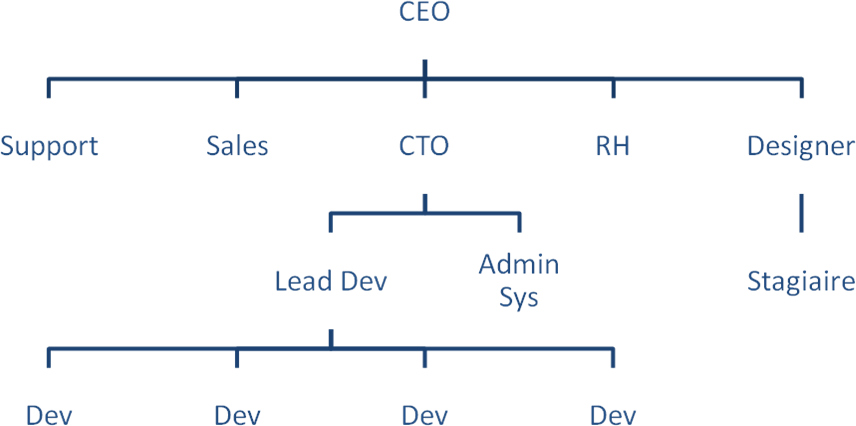
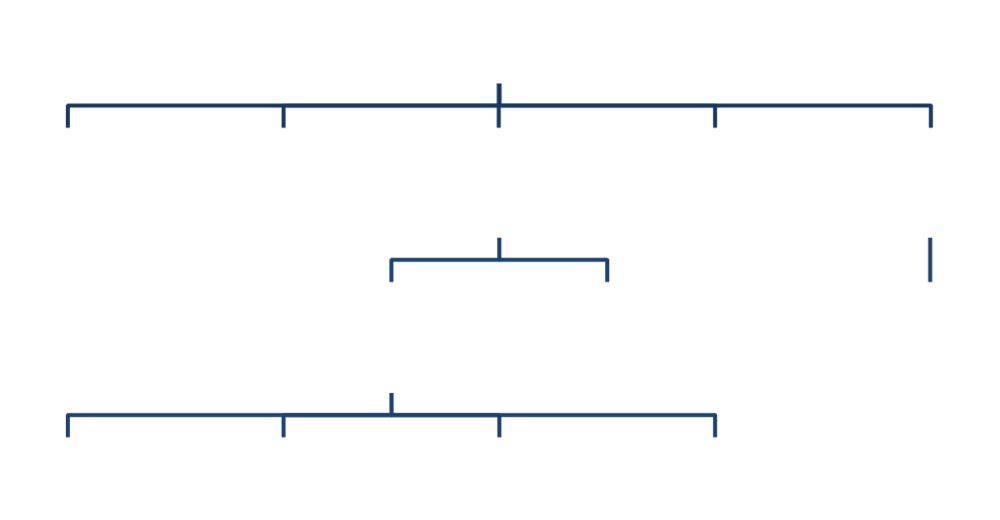
staff

diff --git a/appli/css/styles.css b/appli/css/styles.css
@@ -11,12 +11,28 @@
 }
 
 
-.staff {
+.staff table {
+    font-size: 31px;
+    background-image:url(/startup/images/staff/staff.png);
+    background-repeat:no-repeat;
     margin-top: 50px;
-    width:100%;
-    height:70%;
+    text-align: center;
+    width: 1000px;
+    height: 520px;
 }
 
+.staff table td {
+    //border:1px red solid;
+    width: 53px;
+}
+
+.staff .entry {
+    cursor: pointer;
+}
+
+.hidden {
+    display: none;
+}
 
 .site {
     width:auto;
@@ -47,22 +63,43 @@
     white-space: nowrap;
     overflow: hidden;
     font-size: 18px;
-    padding: 20px;
-    padding-left: 20%;
-    padding-top: 5px;
-    height: 45px;
-    width: 79%;
+    padding-left: 10px;
+    height: 70px;
+    width: 98%;
     background-color: rgb(29, 39, 35);
     color: rgb(200, 223, 230);
     font-size: 32px;
 }
 
-.menu .windows {
+#windows_menu {
+    display: none;
+    background-color: white;
+    position: fixed;
+    bottom: 79px;
+    width: 277px;
+    height: 602px;
+    border: 2px black outset;
+}
+
+#windows_icon {
+    float:left;
+    margin-right:100px;
+    width: 70px;
+    height: 70px;
 }
 
 .menu .entry {
     float:left;
     padding-right: 20px;
+}
+
+.menu .outlook img {
+    height: 20px;
+    width: 40px;
+}
+
+.menu .outlook span {
+    float:right;
 }
 
 .header {

diff --git a/appli/js/staff.js b/appli/js/staff.js
@@ -1,0 +1,11 @@
+$(document).on('click', '.staff .entry', function(e) {
+    e.preventDefault();
+
+    $.post("staff/show", { employeeId : $(e.target).attr('data-id') }, function(data) {
+        if (!$('#windows_menu').is(':visible')) {
+            $('#windows_menu').toggle();
+        }
+
+        $('#windows_menu').html(data);
+    });
+});

diff --git a/appli/js/startup.js b/appli/js/startup.js
@@ -1,0 +1,5 @@
+$(document).on('click', '#windows_icon', function(e) {
+    e.preventDefault();
+
+    $('#windows_menu').toggle();
+});

diff --git a/appli/views/main/wJavascript.php b/appli/views/main/wJavascript.php
@@ -1,11 +1,8 @@
 <script src="startup/libraries/jquery-2.0.0.min.js"></script>
-<script src="startup/libraries/tooltipmenu/js/modernizr.custom.js"></script>
-<script type="text/javascript" src="startup/libraries/chat/js/chat.js"></script>
+<script src="startup/appli/js/startup.js"></script>
 <script type="text/javascript" src="startup/libraries/growler/js/gritter.js"></script>
 <script type="text/javascript" src="startup/libraries/modal/js/jquery.magnific-popup.js"></script>
 <script type="text/javascript" src="startup/appli/js/modal.js"></script>
-<script type="text/javascript" src="startup/appli/js/notification.js"></script>
-<script src="startup/libraries/tooltipmenu/js/cbpTooltipMenu.min.js"></script>
 
 <script>
     $.extend($.gritter.options, {
@@ -16,168 +13,5 @@
     foreach($this->_growlerMessages as $message) :
         echo $message;
     endforeach;
-endif;
-
-if($this->isJSActivated(JS_DATEPICKER)) : ?>
-    <script type="text/javascript" src="startup/libraries/datepicker/jquery.datetimepicker.js"></script>
-    <script type="text/javascript" src="startup/libraries/datepicker/datepicker.js"></script>
-<?php endif;
-if($this->isJSActivated(JS_AUTOCOMPLETE)) : ?>
-    <script src="startup/libraries/jquery-ui/jquery-ui.js"></script>
-    <script src="startup/appli/js/autocomplete.js"></script>
-<?php endif;
-if($this->isJSActivated(JS_SCROLL_REFRESH)) : ?>
-    <script type="text/javascript" src="startup/appli/js/scrollRefresh.js"></script>
-<?php endif;
-if($this->isJSActivated(JS_PHOTO)) : ?>
-    <script type="text/javascript" src="startup/appli/js/photo.js"></script>
-<?php endif;
-if($this->isJSActivated(JS_SEARCH)) : ?>
-    <script type="text/javascript" src="startup/appli/js/search.js"></script>
-<?php endif;
-if($this->isJSActivated(JS_CREW)) : ?>
-    <script type="text/javascript" src="startup/appli/js/crew.js"></script>
-<?php endif;
-if($this->isJSActivated(JS_AGENDA)) : ?>
-    <link rel='stylesheet' href='startup/libraries/agenda/fullcalendar.css' />
-    <script src='startup/libraries/agenda/lib/moment.min.js'></script>
-    <script src='startup/libraries/agenda/fullcalendar.js'></script>
-    <script src='startup/libraries/agenda/lang-all.js'></script>
-    <script>
-    $(document).ready(function() {
-        $('#calendar').fullCalendar({
-            header: {
-                left: 'prev,next today',
-                center: 'title',
-                right: 'month,agendaWeek,agendaDay'
-            },
-            lang: 'fr',
-            defaultDate: '<?php echo $this->default_date; ?>',
-            editable: true,
-            eventLimit: true,
-            dayClick: function() {
-                alert('a day has been clicked!');
-            },
-            events: 'agenda/getEvents'
-        })
-    });
-    </script>
-<?php endif;
-if($this->isJSActivated(JS_FEED)) : ?>
-    <script src="startup/libraries/timeline/js/jquery.timelinr-0.9.6.js"></script>
-    <script type="text/javascript" src="startup/libraries/jquery-comments/js/jquery-comments.js"></script>
-    <script>
-        $(document).ready(function() {
-            $('#comments-container').comments({
-                profilePictureURL: 'startup/photos/profile/<?php echo $this->context->get('user_photo_url'); ?>',
-                postCommentOnEnter: true,
-                enableAttachments: true,
-                getComments: function(success, error) {
-                    $.ajax({
-                        type: 'get',
-                        url: '/plan/getComments/<?php echo $this->plan['plan_id']; ?>',
-                        success: function(commentsArray) {
-                            var arr = $.parseJSON(commentsArray);
-
-                            success(arr)
-                        },
-                        error: error
-                    });
-                }
-            });
-
-            $('#comments-container').comments({
-                postComment: function(commentJSON, success, error) {
-                    console.log(commentJSON);
-                    $.ajax({
-                        type: 'post',
-                        url: '/plan/postComment',
-                        data: {
-                            id : commentJSON.id,
-                            content : commentJSON.content,
-                            created : commentJSON.created,
-                            parent : commentJSON.parent,
-                            upvote_count : commentJSON.upvote_count,
-                            user_has_upvoted : commentJSON.user_has_upvoted ? 1 : 0,
-                            plan_id : <?php echo $this->plan['plan_id']; ?>,
-                            user_id : <?php echo $this->context->get('user_id'); ?>
-                        },
-                        success: function(comment) {
-                            success(commentJSON);
-                            $.gritter.add({
-                                text:  'Commentaire ajouté.',
-                                class_name : 'gritter-ok'
-                            });
-                        },
-                        error: error
-                    });
-                }
-            });
-
-            $('#comments-container').comments({
-                deleteComment: function(commentJSON, success, error) {
-                    $.ajax({
-                        type: 'post',
-                        url: '/plan/deleteComment',
-                        data : {
-                            id : commentJSON.id
-                        },
-                        success: function() {
-                            success();
-                            $.gritter.add({
-                                text:  'Commentaire supprimé.',
-                                class_name : 'gritter-ok'
-                            });
-                        },
-                        error: error
-                    });
-                }
-            });
-
-            $('#comments-container').comments({
-                putComment: function(commentJSON, success, error) {
-                    $.ajax({
-                        type: 'post',
-                        url: '/plan/postComment',
-                        data: {
-                            id : commentJSON.id,
-                            content : commentJSON.content,
-                            modified : 1
-                        },
-                        success: function(comment) {
-                            success(commentJSON);
-                            $.gritter.add({
-                                text:  'Commentaire edité.',
-                                class_name : 'gritter-ok'
-                            });
-                        },
-                        error: error
-                    });
-                }
-            });
-
-            $('#comments-container').comments({
-                upvoteComment: function(commentJSON, success, error) {
-                    console.log(commentJSON);
-                    $.ajax({
-                        type: 'post',
-                        url: '/plan/like',
-                        data: {
-                            id: commentJSON.id,
-                            user_has_upvoted : commentJSON.user_has_upvoted,
-                            upvote_count : commentJSON.upvote_count
-                        },
-                        success: function() {
-                            success(commentJSON)
-                        },
-                        error: error
-                    });
-                }
-            });
-        });
-    </script>
-<?php endif;
-if($this->isJSActivated(JS_EDIT)) : ?>
-    <script type="text/javascript" src="startup/appli/js/edit.js"></script>
-<?php endif; ?>
+endif; ?>
 

diff --git a/appli/views/staff/wIndex.php b/appli/views/staff/wIndex.php
@@ -1,7 +1,37 @@
+<script src="startup/appli/js/staff.js"></script>
+
 <div class="staff">
+    <table>
+        <tr>
+            <td class="entry" data-id="1" colspan="6">CEO</td>
+        </tr>
+        <tr>
+            <td class="entry" data-id="1">Support</td>
+            <td class="entry" data-id="1">Sales</td>
+            <td class="entry" data-id="1" colspan="2">CTO</td>
+            <td class="entry" data-id="1">RH</td>
+            <td class="entry" data-id="1" style="text-align: right;">Designer</td>
+        </tr>
+        <tr>
+            <td colspan="2">&nbsp;</td>
+            <td class="entry" data-id="1">Lead Dev</td>
+            <td class="entry" data-id="1">Admin Sys</td>
+            <td>&nbsp;</td>
+            <td class="entry" data-id="1" style="text-align: right;">Stagiaire</td>
+        </tr>
+        <tr>
+            <td class="entry" data-id="1">DEV</td>
+            <td class="entry" data-id="1">DEV</td>
+            <td>&nbsp;</td>
+            <td class="entry" data-id="1" style="text-align: left;">DEV</td>
+            <td class="entry" data-id="1">DEV</td>
+            <td>&nbsp;</td>
+        </tr>
+    </table>
+    <!--
     <img src="startup/images/staff/staff.png" alt="" usemap="#Map" />
     <map name="Map" id="Map">
-        <area alt="" title="Le BOSS (vous)" href="#" shape="rect" coords="398,3,451,53" />
+        <area alt="" title="Le BOSS (vous)" data-id="1" shape="rect" coords="398,3,451,53">
         <area alt="" title="" href="#" shape="rect" coords="98,101,11,170" />
         <area alt="" title="" href="#" shape="rect" coords="199,105,273,165" />
         <area alt="" title="" href="#" shape="rect" coords="389,105,458,165" />
@@ -17,4 +47,5 @@
         <area alt="" title="" href="#" shape="rect" coords="388,369,460,424" />
         <area alt="" title="" href="#" shape="rect" coords="580,371,655,424" />
     </map>
+    -->
 </div>

diff --git a/appli/views/main/view.php b/appli/views/main/view.php
@@ -21,13 +21,22 @@
             <div class="content" align="center">
                 <?php include($this->getViewFileName()); ?>
             </div>
+            <div id="windows_menu">
+
+            </div>
             <div class="menu">
+                <a href="#" class="">
+                    <img id="windows_icon" src="startup/images/icones/menu/windows.png"/>
+                </a>
                 <div class="container">
-                    <a href="#" class="windows">
-                        <img src="startup/images/icones/menu/windows.png"/>
-                    </a>
                     <div class="entry">Staff</div>
-                    <div class="entry">Outlook</div>
+                    <div class="entry outlook">
+                        <a href="#">
+                            <img src="startup/images/icones/menu/outlook.png" />
+                            <br/>
+                            <span>Outlook</span>
+                        </a>
+                    </div>
                     <div class="entry">Alertes</div>
                     <div class="entry">VOUS</div>
                     <div class="entry">Tendances</div>

diff --git a/appli/controllers/StaffController.php b/appli/controllers/StaffController.php
@@ -6,4 +6,11 @@ class StaffController extends AppController
     {
         $this->view->setTitle('Staff')->setViewName('staff/wIndex')->render();
     }
+
+    public function renderShow()
+    {
+        $employeeId = (int) $this->context->getParam('employeeId');
+
+        $this->view->getJSONResponse('staff/wWindows');
+    }
 }

diff --git a/appli/controllers/NotificationController.php b/appli/controllers/NotificationController.php
@@ -2,11 +2,7 @@
 
 class NotificationController extends AppController
 {
-    protected $_authLevel = array(
-        Auth::ROLE_SKI,
-        Auth::ROLE_OWNER,
-        Auth::ROLE_ADMIN,
-    );
+    protected $_authLevel = array();
 
     public function renderRead()
     {

diff --git a/appli/views/staff/wWindows.php b/appli/views/staff/wWindows.php
@@ -1,0 +1,4 @@
+<div id="employee_profile">
+TRITT
+CEO
+</div>
